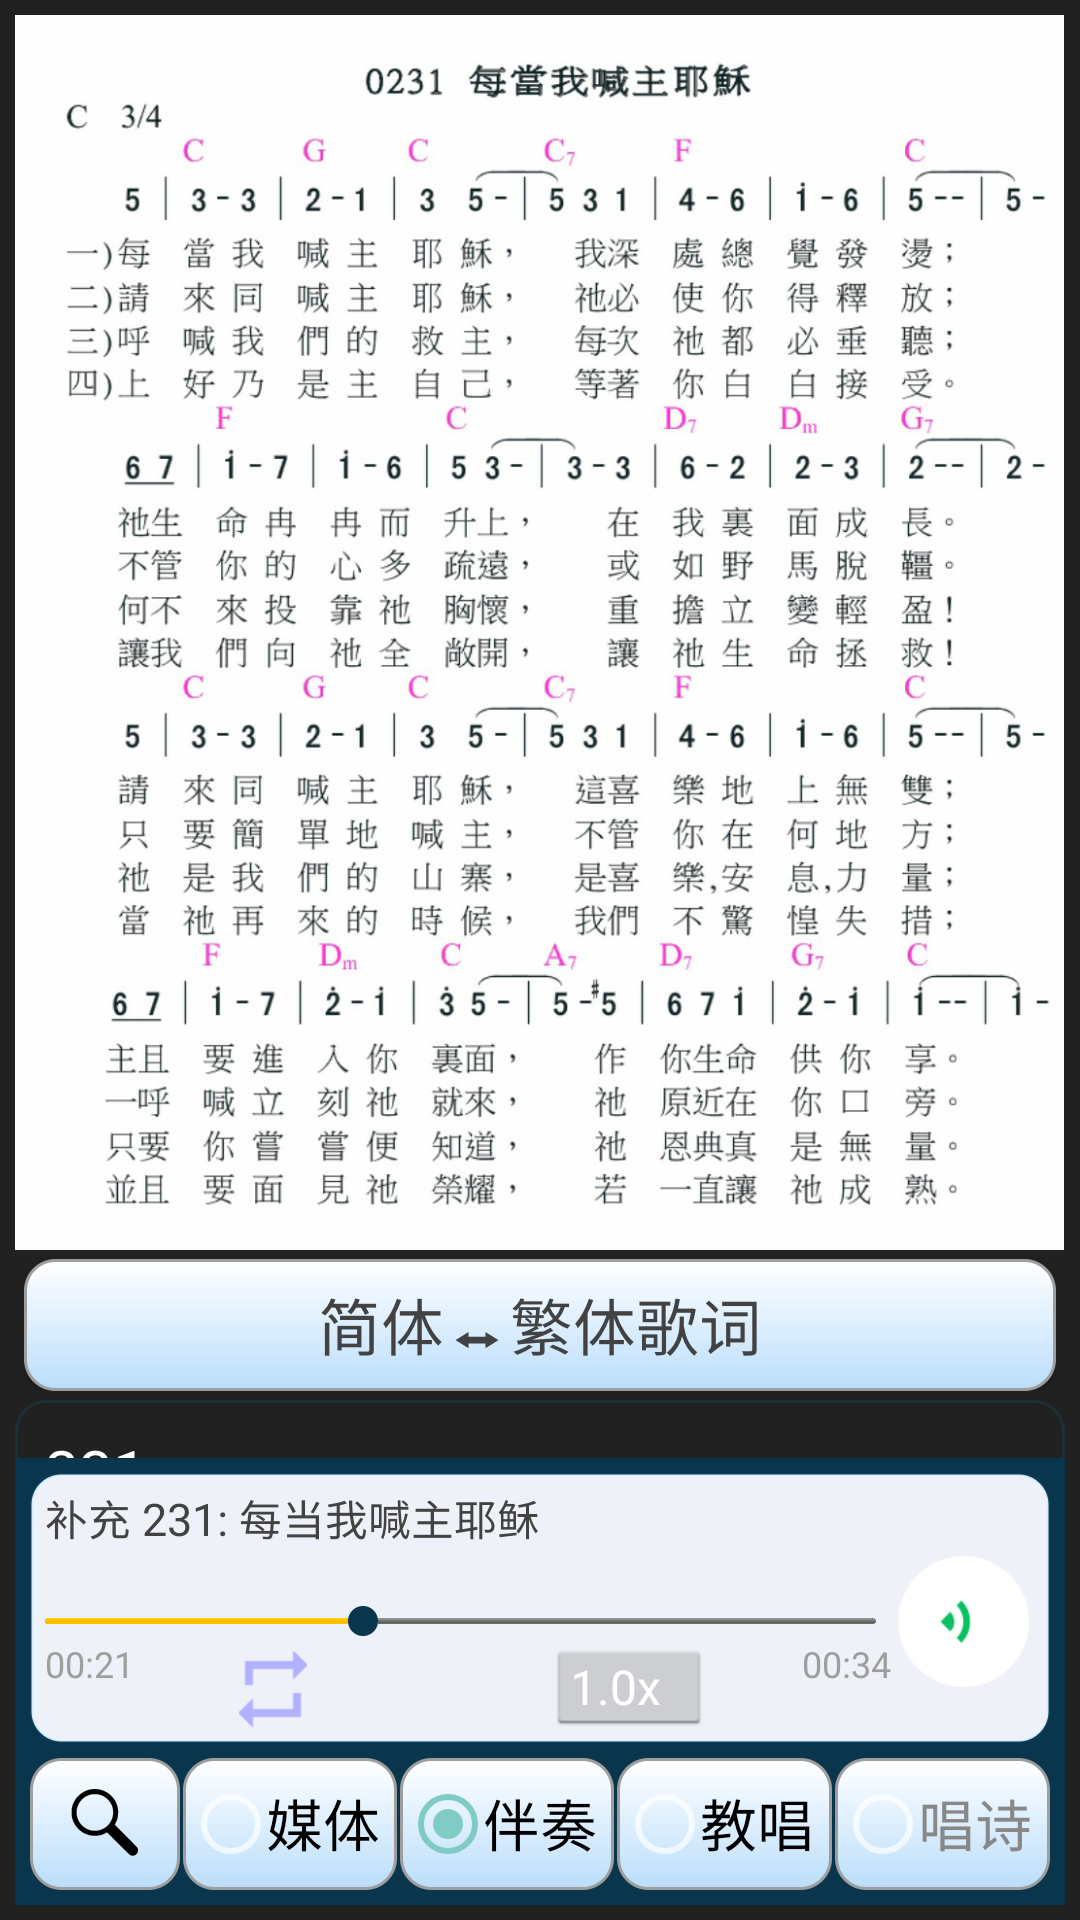
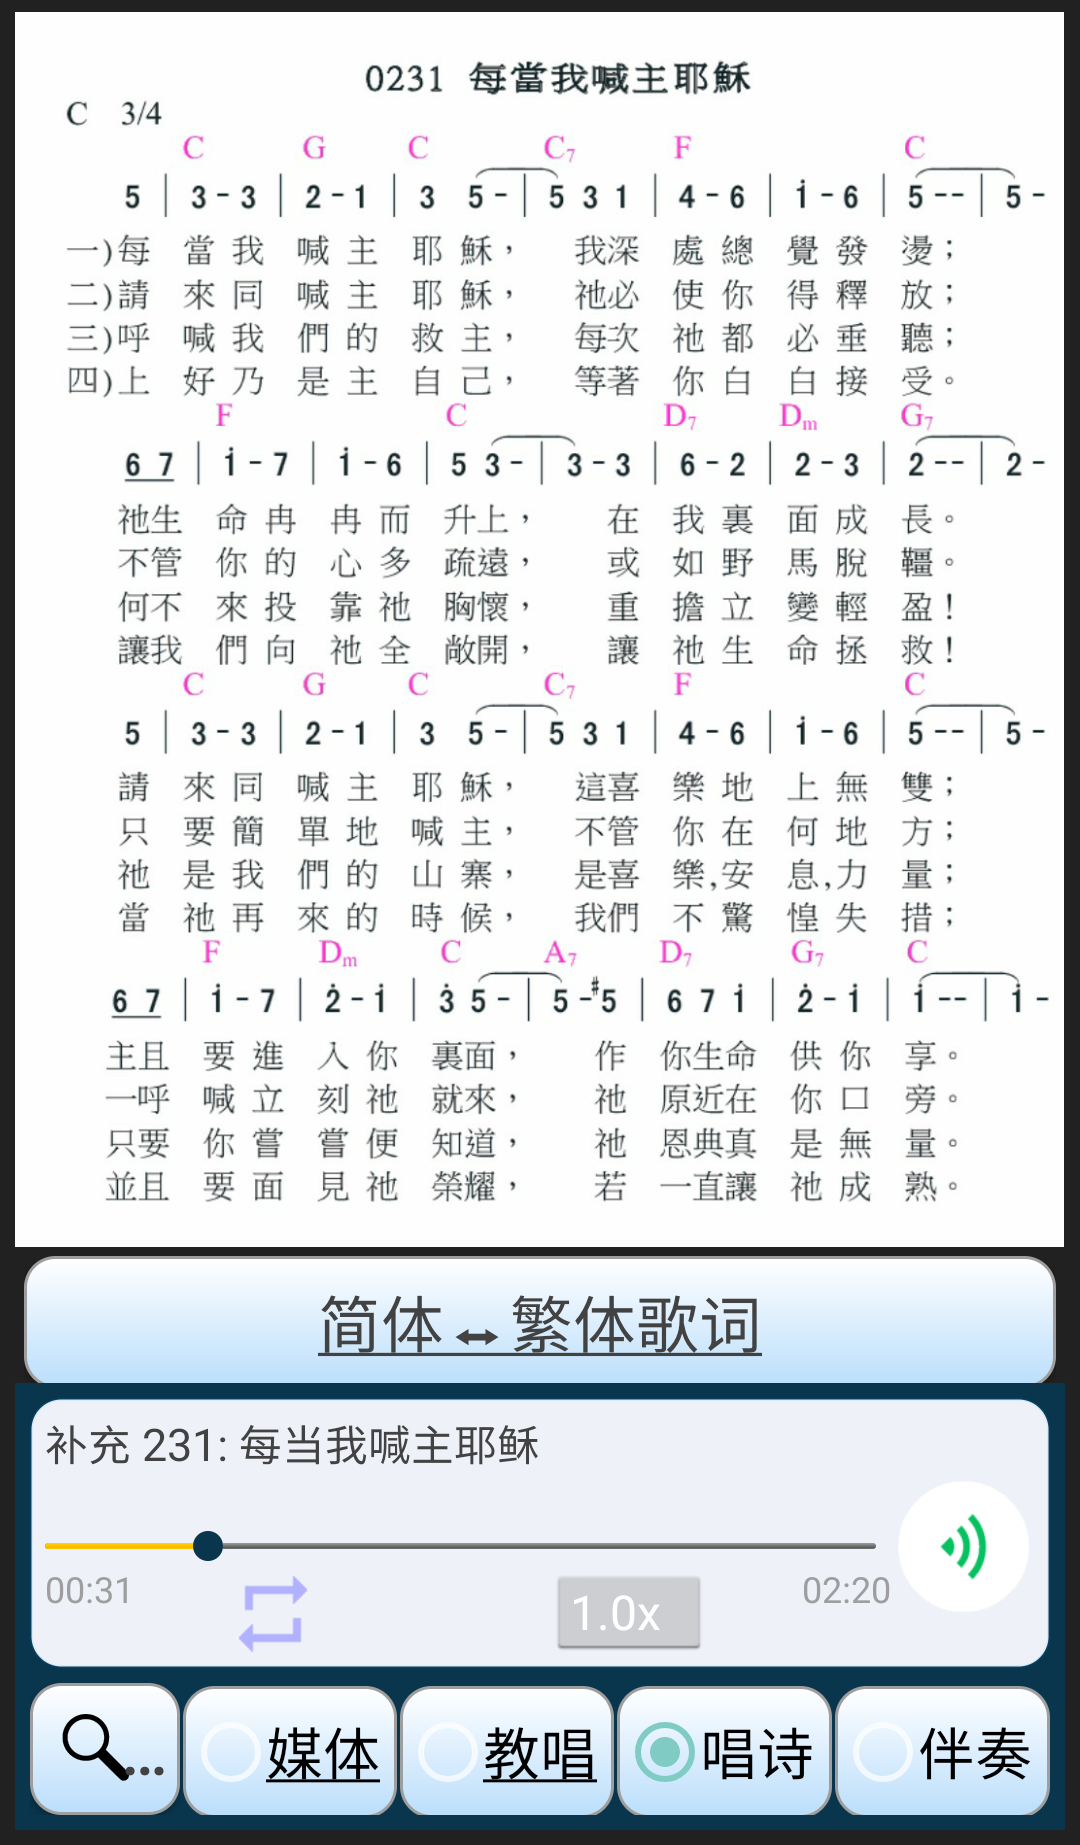
Update hymnchtv 2.2.0 features and UI

diff --git a/hymnchtv/faq.html b/hymnchtv/faq.html
@@ -96,7 +96,7 @@ ul li {
        <li><a href=#hymnch_0010>[20230413] hymnchtv UI design &amp; Implementation</a></li>
      </ul>
      <ul>
-       <li><a href=#hymnch_0020>[hymnchtv main user interface] hymnchtv main user interface</a></li>
+       <li><a href=#hymnch_0020>[20240412] hymnchtv main user interface</a></li>
      </ul>
      <ul>
        <li><a href=#hymnch_0030>[20201220] <b>Hymn Category</b> and <b>Content Search</b> result display</a></li>
@@ -108,7 +108,7 @@ ul li {
        <li><a href=#hymnch_0042>[20230413] Chinese Simplified, Traditional or English lyrics selection</a></li>
      </ul>
      <ul>
-       <li><a href=#hymnch_0050>[20221013] Hymn media player UI interface, control and playback operations</a></li>
+       <li><a href=#hymnch_0050>[20240412] Hymn media player UI interface, control and playback operations</a></li>
      </ul>
      <ul>
        <li><a href=#hymnch_0060>[20201231] Hymn media storage and selection algorithm for playback</a></li>
@@ -160,12 +160,14 @@ ul li {
 
    <span id='hymnch_0020'></span>
    <div class='innerText'><image src="./img/01.hymnchtv_main.png" align="right" width="25%" style="margin:5px 0px 20px 15px"/></div>
-   <div class='blueText'>[hymnchtv main user interface] hymnchtv main user interface <a href=#content>{ Content }</a></div>
+   <div class='blueText'>[20240412] hymnchtv main user interface <a href=#content>{ Content }</a></div>
    <div class='innerText'>This is the main hymnchtv UI that is shown when user launches the hymnchtv application. From
      this main UI window, you can access to all the hymnchtv features implementation, pop-up menu and the main pull down menu.
      <ul>
        <li><b>Hymn Selection</b>: User can input the required hymn no using the numerical and <b>附</b>/fu keypad buttons;
-         Then select the HymnType <b>[儿诗|新颂|补充|大本]</b> to enter the hymn lyrics display and media playback UI page.</li>
+         Then select the HymnType <b>[儿诗|新颂|补充|大本]</b> to enter the hymn lyrics display and media playback UI page.
+         <br />When user clicks the <b>英文</b> button, the hymnNo entered is treated as English Hymn number; the app
+         will search and display the corresponding Chinese Hymn UI, and start fetching the English lyrics.</li>
        <li><b>目录 Hymn Categories</b>: The user desired hymn title can also be entered via the Hymn Category spinner options.
          Every HymnType are sub-categorised according to:
          <br /><b>诗歌类别</b>: Hymn content category types as given in the various printed hymn books;
@@ -173,8 +175,9 @@ ul li {
          <br /><b>拼音索引</b>: The first alpha letter of the hymn title first character's PinYin;
          <br /><b>英中对照</b>: Cross reference table from English to Chinese hymn number.</li>
        <li><b>内容搜索: Hymn Content Search</b>: Allow searching the contents for all the HymnType with the search string
-         entered by the user. Hymnchtv supports only search string in simplified Chinese. For special character i.e. ‘祂’,
-         user can input ‘他’, then long press the <b>Content Search</b> button to convert ‘他’&#10145;‘祂’.</li>
+         entered by the user. Hymnchtv supports only search string in Simplified Chinese. Any Traditional Chinese entered
+         by user will automatically be converted to Simplify Chinese before searching start. For special character
+         i.e. ‘祂’, user can input ‘他’, then long press the <b>Content Search</b> button to convert ‘他’&#10145;‘祂’.</li>
        <li><b>附 Fu</b>: Supplement song titles are only available in <b>大本诗歌</b>. Press <b>附</b> follows by number;
          then press DaBu to enter the selection.</li>
        <li><b>Del</b>: Press to <b>Del</b> button to erase the number entry, before enter a new hymn number.</li>
@@ -197,6 +200,8 @@ ul li {
        <li><b>设置主面版文字大小</b>: The main UI font size can be changed via this option; there are 4 predefined sizes i.e.
          小 (30sp); 默认 (35sp); 大 (40sp); 超大 (45sp); and 加大/减小 +2/-2 of the current set font size for user selection.</li>     
        <li><b>用户定义媒体设置</b>: User defined media configuration setup. See <a href=#hymnch_0070>below</a> for details.</li>     
+       <li><b>安卓权限设置</b>: Access to android application settings to grant Hymnchtv the required permissions for
+         it to operate properly.</li>     
        <li><b>网上帮助</b>: Click on option will display this online help page/</li>     
        <li><b>关于</b>: About the basic info of the hymnchtv, including install apk version and history.</li>     
        <li><b>退出</b>: This will closed the hymnchtv app and exit. The BackKey only close the main UI.</li>     
@@ -278,25 +283,37 @@ ul li {
 
 
    <span id='hymnch_0050'></span>
-   <div class='blueText'>[20221013] Hymn media player UI interface, control and playback operations <a href=#content>{ Content }</a></div>
+   <div class='blueText'>[20240412] Hymn media player UI interface, control and playback operations <a href=#content>{ Content }</a></div>
    <div class='innerText'>Beside showing the hymn lyrics of the user selected HymnNo, Hymnchtv can playback the selected
-     media content associated with any of the four buttons i.e. <b>媒体</b>, <b>伴奏</b>, <b>教唱</b> and <b>唱诗</b>.
+     media content associated with any of the four buttons i.e. <b>媒体</b>, <b>教唱</b>, <b>唱诗</b> and <b>伴奏</b>.
      The media content may include local stored video &amp; audio files, or media url for youtube or other internet
      link shared via media configure UI. Pending the media content, the player used for playback can either be android
-     media player (midi), exo-player or youtube player as shown on the right. <br />
-     <image border="2px solid blue" src="./img/hymnchtv_media_player_youtube.png" align="right" width="25%" style="margin:5px 0px 20px 15px"/>
+     media player (midi), exo-player or youtube player as shown on the right. When a device is placed in landscape mode, 
+     video playback will cover the lyrics UI. Click on the hide_screen button i.e.
+     <image src="./img/ic_hide_screen.png" width="24" height="24" align="middle" style="margin:5px 5px"/>
+     to reveal the lyrics below. Press the <b>BackKey</b> to show the video playback again. This option is currently
+     available for youtube player only.</div>
+   <div class='innerText'>
+     <image border="2px solid blue" src="./img/hymnchtv_media_player_yt_hide.png" align="right" width="25%" style="margin:5px 0px 20px 15px"/>
      Each hymn media button also provides the availability staus/indication of the media content for playback. The
-     button text is greyed when there is no associated media content for playback.
+     button text is greyed when there is no associated media content for playback. </div>
+     <div class='innerText'>
+       When a new hymnchtv version is installed, its database media links are updated with new records from an asset
+       file. User old media records in the databse, if any will be left untouched. A copy of the asset file will be 
+       saved in the "./import_export/url_import-&lt;timeStamp>.txt". User may refer to this file for import with at
+       a later thime with <b>覆盖现有</b> option checked if so desire. 
      <ul>
        <li><b>媒体</b>: User defined media contents; usually use for media url for youtube or other internet link shared
-         via media configure UI.</li>
+         via media configure UI.
+         <br /><b>Long Press</b> on this button will show the QQ main page.</li>
+       <li><b>教唱</b>: Hymn singing lesson. Currently this is used to access the Notion and QQ url links for all available
+         HymnType. When user clicks the button while the text is greyed out i.e. no defined url link; hymnchtv will display
+         a web page for the current selected hymnType. User can then choose the required hymn title/link for display and 
+         playback. User may share and save the found url link into hymn database, use this url instead for future playback.
+         <br /><b>Long Press</b> on this button will show the Notion main page.</li>
+       <li><b>唱诗</b>: Usually for local stored hymns, or an associated url link for playback.</li>
        <li><b>伴奏</b>: Hymn accompany music only media playback. The playback media can either be from the embedded
          midi files or downloaded from the predefined site.</li>
-       <li><b>教唱</b>: Hymn singing practice. Currently this is used to access the QQ url links available for <b>补充本</b>
-         HymnType; the database records are being updated in new installation of hymnchtv v1.7.6 and above. When click
-         on the button with text greyed out will bring you to QQ main page. <b>Long Press</b> this button will also
-         show the QQ main page.</li>
-       <li><b>唱诗</b>: Local stored hymn music with words or associated url link.</li>
        <li><b>搜索</b>: Search the relevant contents for the user selected HymnNo per the button actions below.
            You may then navigate to the required hymn for playback, or share the link with hymnchtv for
            later retrieval. When an url link is shared via this button, hymnchtv will auto fill all the <b>诗歌类别, 
@@ -305,32 +322,33 @@ ul li {
          <ul>
            <li><b>Single Tap</b> to perform hymn info search via youtube.com</li>
            <li><b>Long Press</b> to perform hymn info search via google.com</li>
-           <li>Note: The user selected HymnNo info is also copied to the clipboard. You may paste this clipboard
+           <li>Note: The user selected hymnNo info is also copied to the clipboard. You may paste this clipboard
              text into any of your preferred search engine to perform additional content searching.</li>
          </ul>
        <li><b>Repeat/Loop Count</b>: Disable/Enable repeat playback with user defined loop count.</li>
        <li><b>Playback speed</b>: Variable playback speed. The available playback speed varies from 0.6x~1.4x of the
-         orignal hymn tempo. This setting applies to all the playback media.</li>
+         original hymn tempo. This setting applies to all the playback media.</li>
      </ul>
 
-     For hymn media playback: user first selects the required MediaType, the desired repeat/loop count and the playback
+     For hymn media playback: user first selects the required mediaType, the desired repeat/loop count and the playback
      speed; then followed by:
      <br />a. Click the play button to start;
      <br />b. Click again to pause the playback;
      <br />c. Click again to resume playback;
      <br />d. Long click to stop the playback and return to start of the hymn media.
    </div>
-   <div class='innerText'>User may scroll left/right to a different HymnNo lyrics while the hymn playback is in progress.
+   <div class='innerText'>User may scroll left/right to a different hymnNo lyrics while the hymn playback is in progress.
      The current playing hymn will continue until the end, without any disruption. If user wants to play the newly
-     selected HymnNo, he/she must manually stop the playback, or wait until the current hymn playback ends. The media
+     selected hymnNo, he/she must manually stop the playback, or wait until the current hymn playback ends. The media
      player UI info will then be updated to the user newly selected when playback ended.
    </div>
    <div class='innerText'><image src="./img/hymnchtv_media_download.png" align="right" width="25%" style="margin:5px 0px 20px 15px"/></div>
-   <div class='innerText'>Except for the <b>媒体</b> media type selection, if hymnchtv cannot find the required media
-     file in the local directory for the playback; it will attempt to download the required media content from a predefined
-     url link location. This is internally set to https://heavenlyfood.cn/hymns/ currently. The playback will start
-     when the medium content downloading is completed. The downloading process will only perform once for each of the
-     HymnNo; all the downloaded media files are stored in the local storage for next time use.
+   <div class='innerText'>Except for the <b>媒体</b> and <b>教唱</b> media type selection, if hymnchtv cannot find the
+     required media file in the local directory for the playback; it will attempt to download the required media content
+     from a predefined url link location. This is currently set to "http://mana.stmn1.com/sg/er/mp3/" and
+     "https://www.hymnal.net/Hymns/". The playback will start when the medium content downloading is completed.
+     The downloading process will only perform once for each of the hymnNo; all the downloaded media files are stored
+     in the local storage for next time use.
    </div>
    <div class='innerText'>If the user closes the current downloading UI by click the <b>X</b>, the downloading process
      will continue in background until completion. User may select another media type to playback; only returns to the

diff --git a/hymnchtv/index.html b/hymnchtv/index.html
@@ -110,8 +110,8 @@
 					<h2>书拉密女诗歌本应用程序主用户界面</h2>
 					<div class="media">
             <image src="./img/01.hymnchtv_main.png"/>
-						<p>诗歌输入可使用诗歌编号，目录选项或简体中文内容搜索。长按[内容搜索]按钮即可将输入文字词组转换‘他’&#10145;‘祂’。
-						<br/>诗歌编号：输入(附)号码后按大本，补充，新颂或儿诗。</p>
+						<p>诗歌输入可使用诗歌编号，目录选项或简体中文内容搜索。诗歌编号：输入(附)号码后按大本，补充，新颂，儿诗或英文。
+						内容搜索：长按[内容搜索]按钮即可将输入文字词组转换‘他’&#10145;‘祂’。</p>
 					</div>					
 				</li>
 
